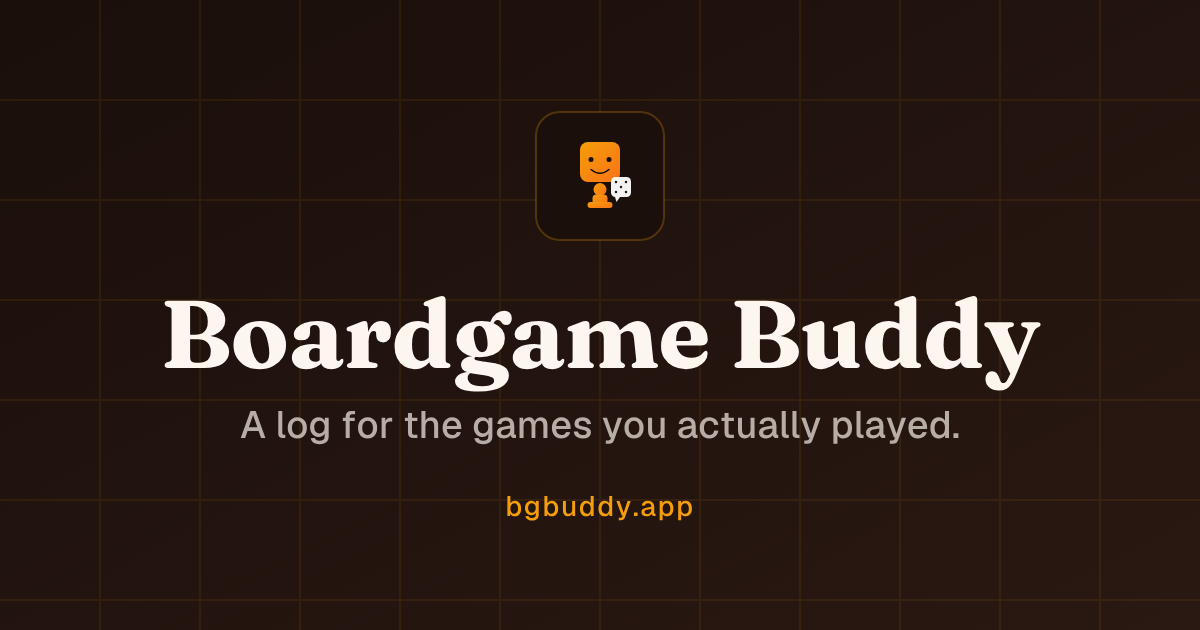
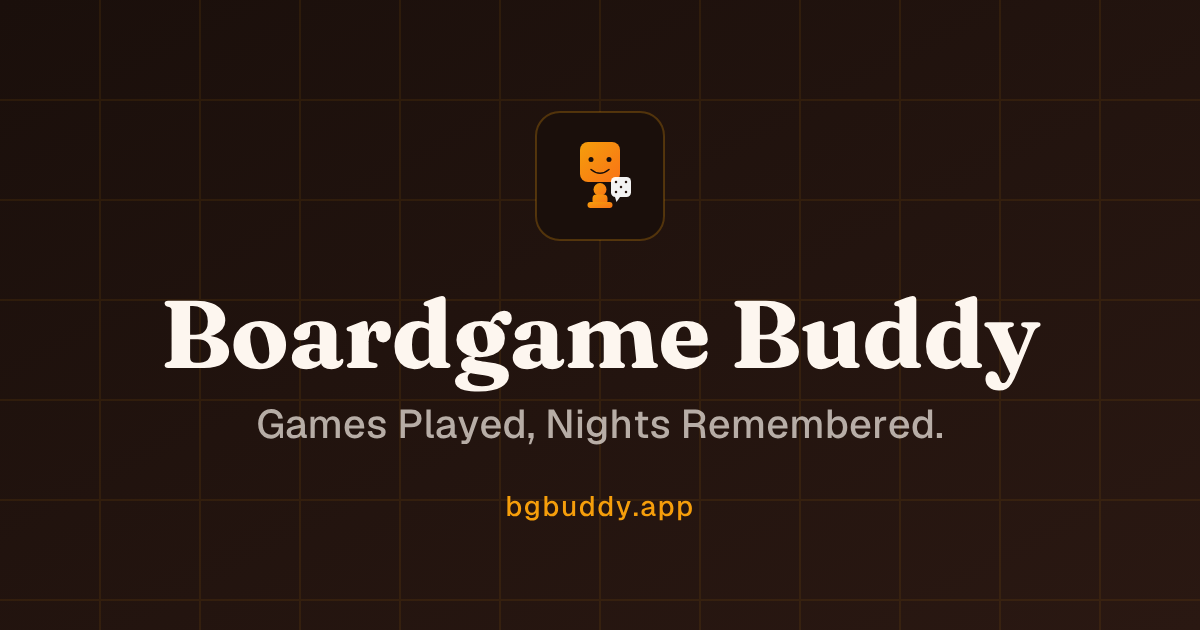
[boardgame-buddy] set the tagline to "Games Played, Nights Remembered."
Replaces "A log for the games you actually played," which had three problems
worth recording so they are not reintroduced. It was defensive — "actually"
quietly scolds the reader about their unplayed shelf. It was narrow, naming
one of the app's five jobs and calling the app a "log," the least interesting
noun available. And a log is something that sits there.

The new line does the job a tagline can actually do for a five-feature app:
rather than picking one feature, it names the one object all five serve.
"Games played" is the record half — the scoresheet, the collection, the
stats. "Nights remembered" is the half nothing else on the market does, since
BoardGameGeek has the database and a notes app has the scores and neither
keeps the evening. Both halves use the same compressed noun-plus-participle
shape, which is what makes it scan as one phrase instead of two features.

Docs/BRAND_VOICE.md is new and is the point of this commit as much as the
line is. It records:

  * The four places the tagline lives and must be changed together — the
    generator's COPY, the two generated banner files, and two meta tags. The
    banner's type is outlines rather than text, so it cannot be edited by
    hand and a stale banner would otherwise disagree with the page.
  * The runners-up, kept deliberately rather than discarded. "Your Games,
    Your People, Your Record." is a triad rather than a compression, so it
[…]

Changed region(s): [[0.185, 0.6333, 0.8017, 0.7238]]

diff --git a/projects/boardgame-buddy/web/index.html b/projects/boardgame-buddy/web/index.html
@@ -40,17 +40,17 @@
          scraper that fetches /play/ABCD gets the same index.html the router
          gets — there is no per-play card without rendering one at the edge.
          The generic card is the honest answer, not a placeholder. -->
-  <meta name="description" content="A log for the games you actually played. Track plays, keep a reference guide your table can read mid-game, and see what your buddies have been playing." />
+  <meta name="description" content="Games Played, Nights Remembered. Keep the score, keep a reference guide your table can read mid-game, and see what your buddies have been playing." />
   <meta property="og:type" content="website" />
   <meta property="og:site_name" content="Boardgame Buddy" />
   <meta property="og:title" content="Boardgame Buddy" />
-  <meta property="og:description" content="A log for the games you actually played." />
+  <meta property="og:description" content="Games Played, Nights Remembered." />
   <meta property="og:url" content="https://bgbuddy.app/" />
   <meta property="og:image" content="https://bgbuddy.app/assets/brand/bgb-og-banner.png" />
   <meta property="og:image:type" content="image/png" />
   <meta property="og:image:width" content="1200" />
   <meta property="og:image:height" content="630" />
-  <meta property="og:image:alt" content="Boardgame Buddy — a log for the games you actually played." />
+  <meta property="og:image:alt" content="Boardgame Buddy — Games Played, Nights Remembered." />
   <meta name="twitter:card" content="summary_large_image" />
   <!-- Installable PWA. The point isn't the home-screen icon, it's that sw.js
        precaches the shell so the app opens with no signal — which is what

diff --git a/projects/boardgame-buddy/tools/build-og-banner.py b/projects/boardgame-buddy/tools/build-og-banner.py
@@ -51,11 +51,12 @@ OUT_PNG = os.path.join(WEB, "assets", "brand", "bgb-og-banner.png")
 
 W, H = 1200, 630
 
-# The wording is the app's own, not new marketing copy: the tagline is the line
-# the pre-launch landing view carried, and the app name is the app name.
+# See Docs/BRAND_VOICE.md for how this line was chosen and what lost to it.
+# Title case is deliberate — it reads as a statement rather than a sentence,
+# and the two halves are meant to balance.
 COPY = {
     "name": "Boardgame Buddy",
-    "tagline": "A log for the games you actually played.",
+    "tagline": "Games Played, Nights Remembered.",
     "domain": "bgbuddy.app",
 }
 
@@ -115,7 +116,7 @@ def build_svg():
     ui = fetch_font(FONT_CSS["ui"])
 
     name_d, name_w = text_path(display, COPY["name"], 96, tracking=-0.5)
-    tag_d, tag_w = text_path(ui, COPY["tagline"], 38)
+    tag_d, tag_w = text_path(ui, COPY["tagline"], 40)
     dom_d, dom_w = text_path(ui, COPY["domain"], 28, tracking=1.5)
 
     # Vertical rhythm. Everything sits inside a 60px band top and bottom,

diff --git a/projects/boardgame-buddy/Docs/BRAND_VOICE.md b/projects/boardgame-buddy/Docs/BRAND_VOICE.md
@@ -1,0 +1,104 @@
+# BoardgameBuddy — voice, and the tagline
+
+The tagline is:
+
+> **Games Played, Nights Remembered.**
+
+Set 2026-09-16, after three rounds of ideation over about ninety candidates.
+Title case, with the period, because it reads as a statement rather than a
+sentence — and because the two halves are meant to balance.
+
+## Where the line actually lives
+
+Four places, and they have to be changed together or the card and the page
+disagree:
+
+| Where | What |
+|---|---|
+| `tools/build-og-banner.py` → `COPY["tagline"]` | the banner artwork; re-run the script after editing |
+| `web/assets/brand/bgb-og-banner.{svg,png}` | the generated output, committed |
+| `web/index.html` → `og:description`, `og:image:alt` | the link-preview card |
+| `web/index.html` → `meta name="description"` | the tagline plus the explainer sentence |
+
+The banner's type is **outlines, not text** (see the header of the generator for
+why), so the tagline cannot be edited in the SVG by hand. Change `COPY` and
+re-run.
+
+## Why this line
+
+The app is five things — a reference you read mid-game, a scoresheet, a
+collection manager, a discovery tool, and a feed of what your buddies played.
+No three-word line carries five things, so the tagline's job is to name the
+**one object all five serve**: the night.
+
+"Games played" is the record half — the log, the scores, the collection. "Nights
+remembered" is the half nothing else on the market does: BoardGameGeek has the
+database, a notes app has the scores, and neither keeps the evening. Both halves
+use the same compressed `noun + past participle` shape, which is what makes it
+scan as one phrase rather than two features.
+
+## Runners-up, kept on purpose
+
+**`Your Games, Your People, Your Record.`** The closest second, and it is still
+live — it survives a change of tagline because it is a *different shape*: a
+triad, which suits a place the primary line does not reach. Obvious homes if you
+want it: an onboarding deck's first slide, the empty state on a fresh account,
+an app-store screenshot caption, or merch. Keep it in the possessive — the
+version without "your" loses the whole point.
+
+**`Half scoresheet, half scrapbook.`** The only line from the whole exercise
+that carries *recorder AND social* in one breath. Better as a one-line product
+description (an app-store subtitle, a directory listing) than as the tagline,
+because it describes the software rather than the night.
+
+**`The buddy who was paying attention.`** The most ownable line written, because
+a competitor cannot use the word. Held back only because it personifies the app
+harder than the rest of the product currently does. If BGB ever grows a real
+voice in its own copy — toasts, empty states, achievement cards — this is the
+line to build it on.
+
+## The funny ones, and where funny belongs
+
+Two lines landed as genuinely funny and should not be thrown away:
+
+> **Play it. Log it. Gloat.**
+> **Winning is temporary. The log is forever.**
+
+**Neither should be the tagline.** Both are jokes at the reader's expense, and a
+tagline is read by someone who has not yet decided to trust the app — the joke
+lands on a stranger as a jab. They are excellent *in* the product, where the
+reader has already opted in:
+
+- an achievement or wrap-up card after a win,
+- the empty state on a profile with no plays yet,
+- a toast after logging a play,
+- merch. **Winning is temporary. The log is forever.** is the best t-shirt in
+  the set, and merch is the one surface where a joke needs no context.
+
+## Tone rules, derived from the exercise
+
+1. **Name the night, not the feature.** "Track your plays" is what the app does.
+   Every competitor says it, and it describes the least interesting half.
+2. **Concrete beats abstract.** "Who won" outperformed "memories" every time —
+   it is funnier, more specific, and implies the argument, the rivalry and the
+   record at once.
+3. **No "actually".** The previous tagline was *"A log for the games you actually
+   played"*, and the word quietly scolds the reader about their unplayed shelf.
+   Self-deprecating jokes about the shelf of shame are for *inside* the app,
+   made by a user about themselves — never by the app about the user.
+4. **Don't name a day.** "Friday nights, filed" was the best-sounding line in one
+   round and was cut for this: half the audience plays Tuesdays. Alliteration is
+   not worth excluding people from their own app.
+5. **Avoid "every X counts".** It is Strava's, and the echo invites "so it's
+   Strava for board games", which undersells the reference and collection halves.
+6. **A triad's middle beat carries the register.** The starter
+   *"Unboxed, Uncomplicated, Unforgettable"* breaks because *uncomplicated* is
+   about the software while the other two are about the evening. Fix the middle
+   word, not the ends.
+
+## One thing the tagline is not
+
+It is **not** the OAuth consent screen. Google's screen takes the app name and a
+120×120 square logo (`web/assets/brand/bgb-logo.svg`) and has no tagline or
+banner slot at all. The banner exists for link previews, which is the only place
+a 1.91:1 image is rendered.

diff --git a/projects/boardgame-buddy/CLAUDE.md b/projects/boardgame-buddy/CLAUDE.md
@@ -7,8 +7,11 @@ loads and its Git and file-size conventions still apply — but its pipeline
 stages, `shared-backend/` layout and `scaffold.sh` flow **do not describe this
 project**. When the two disagree, this file wins.
 
-Read `Docs/STRUCTURE.md` before touching any feature code, and
-`Docs/MIGRATION_PLAN.md` before touching any infrastructure.
+Read `Docs/STRUCTURE.md` before touching any feature code,
+`Docs/MIGRATION_PLAN.md` before touching any infrastructure, and
+`Docs/BRAND_VOICE.md` before writing any user-facing copy — it carries the
+tagline, the four places it has to stay in sync, and the tone rules that came
+out of choosing it.
 
 ## Layout
 
